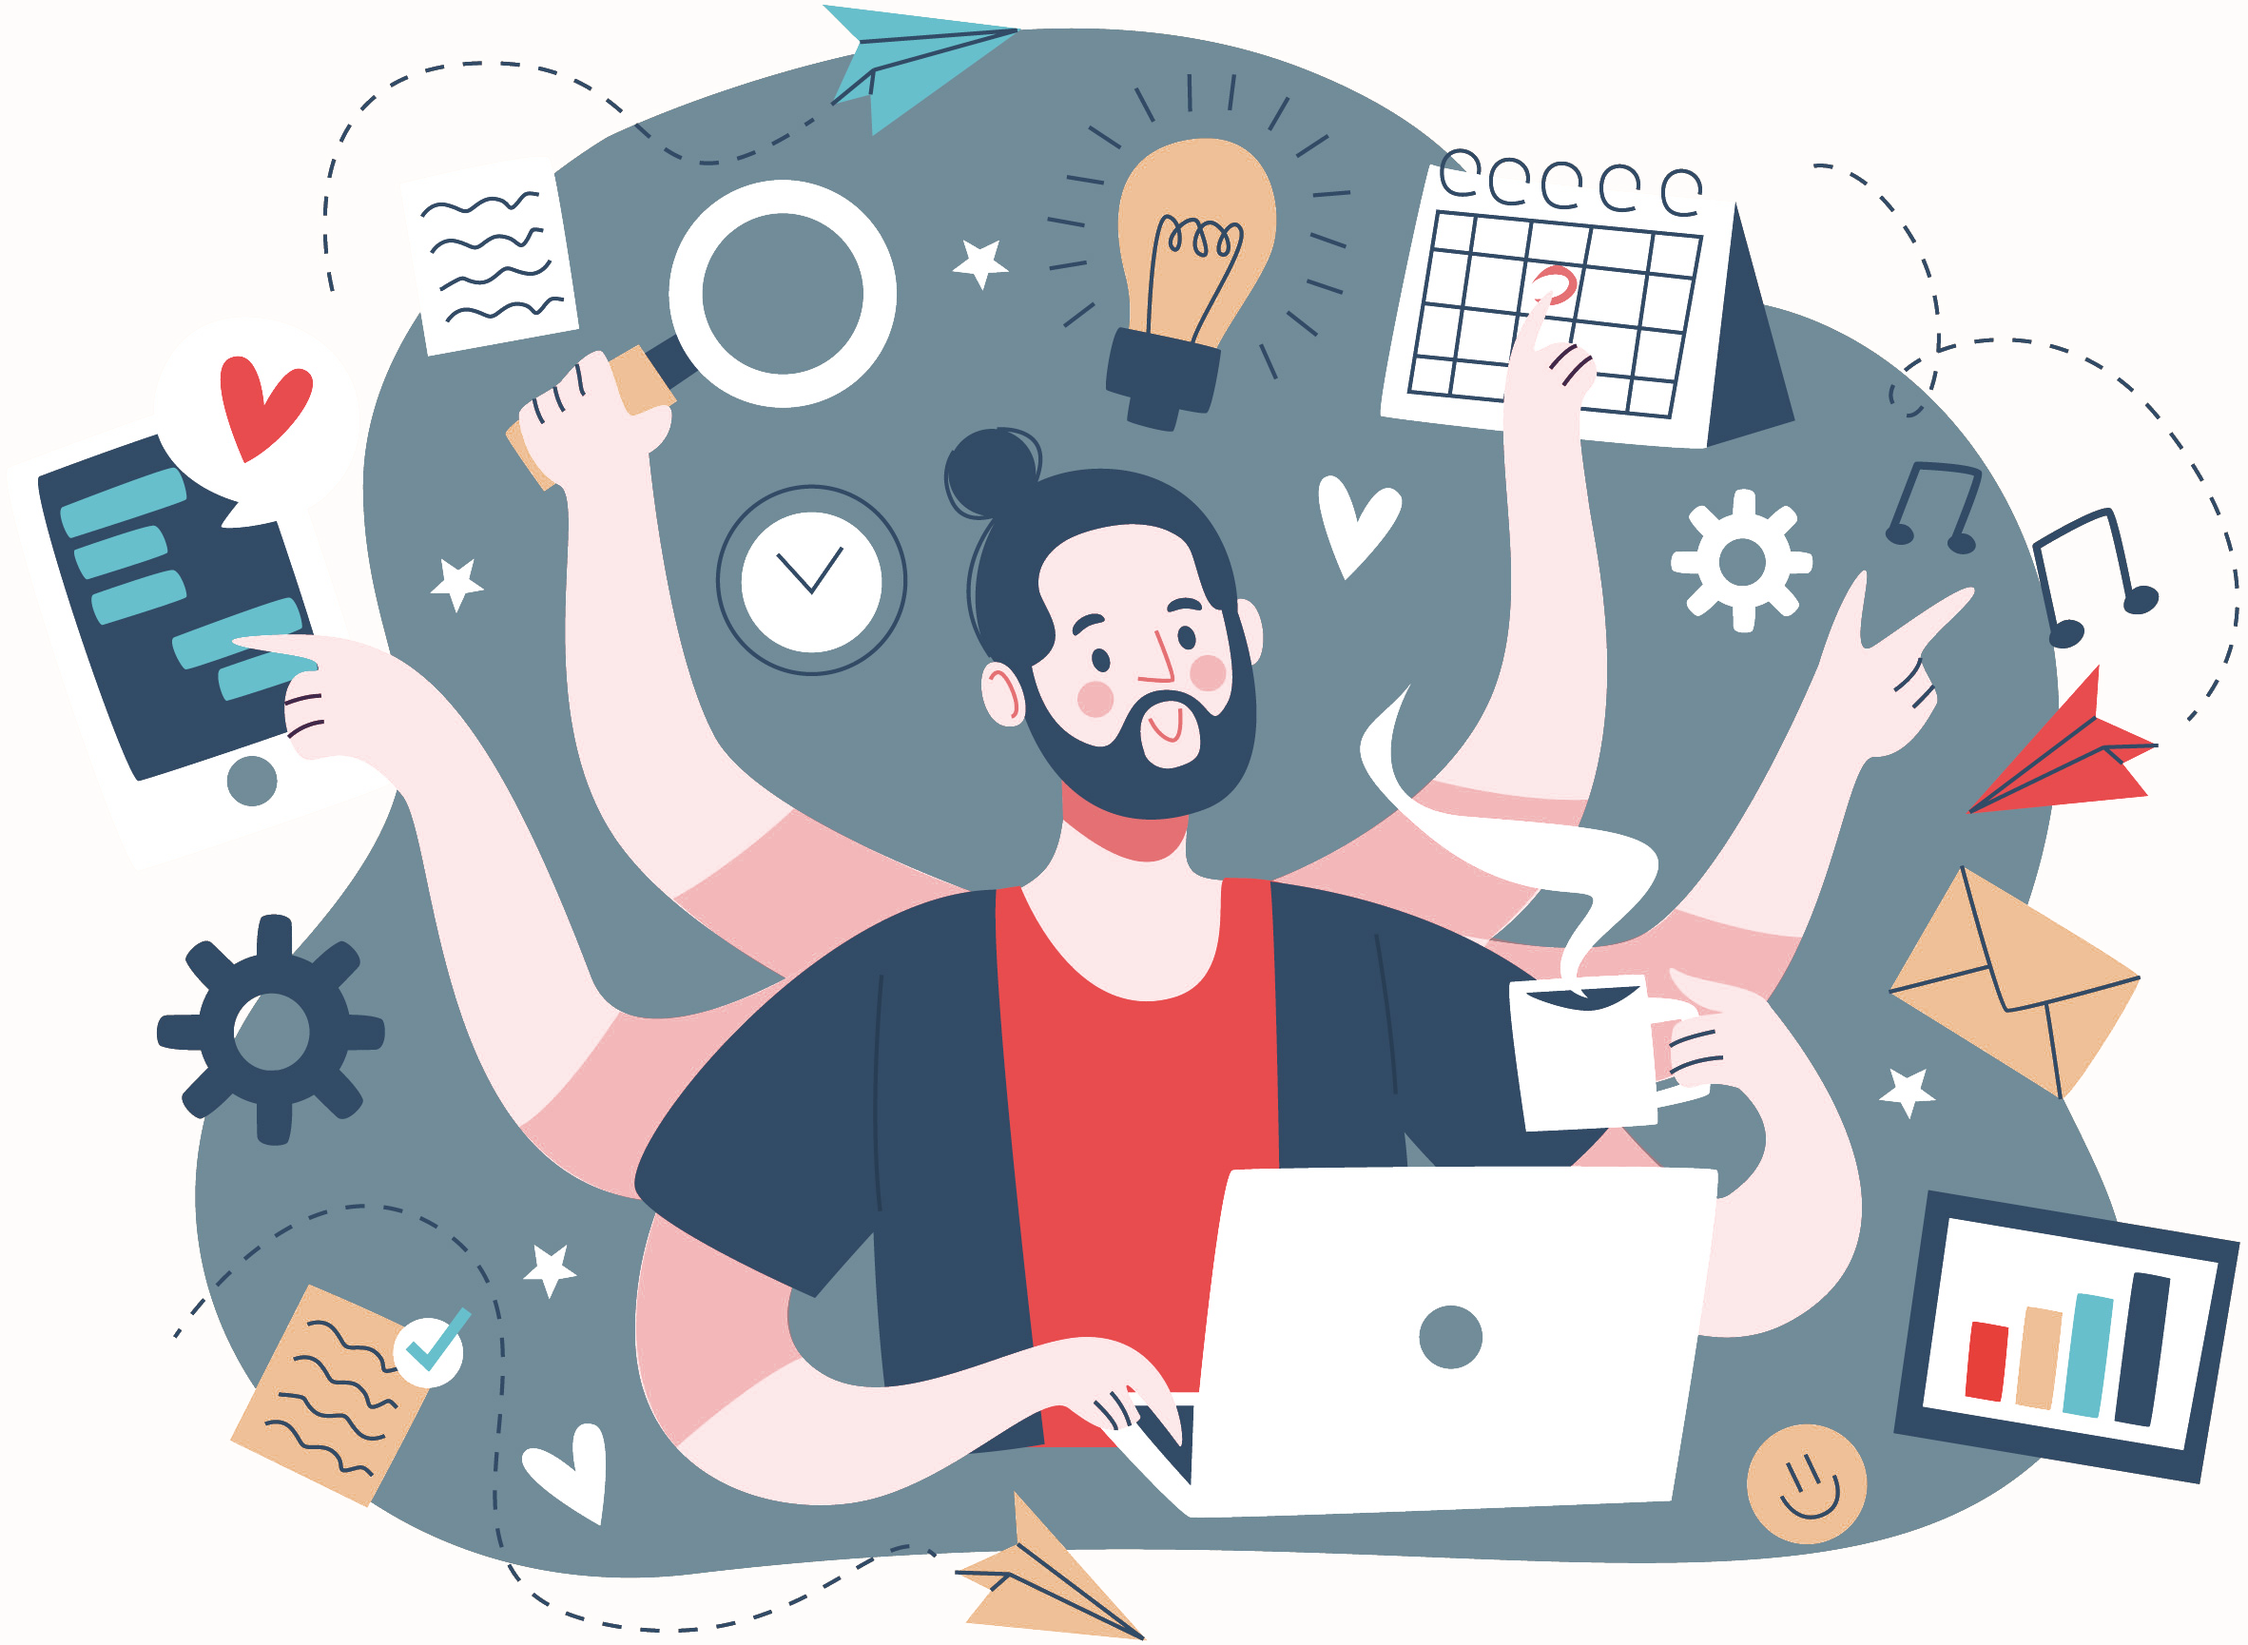
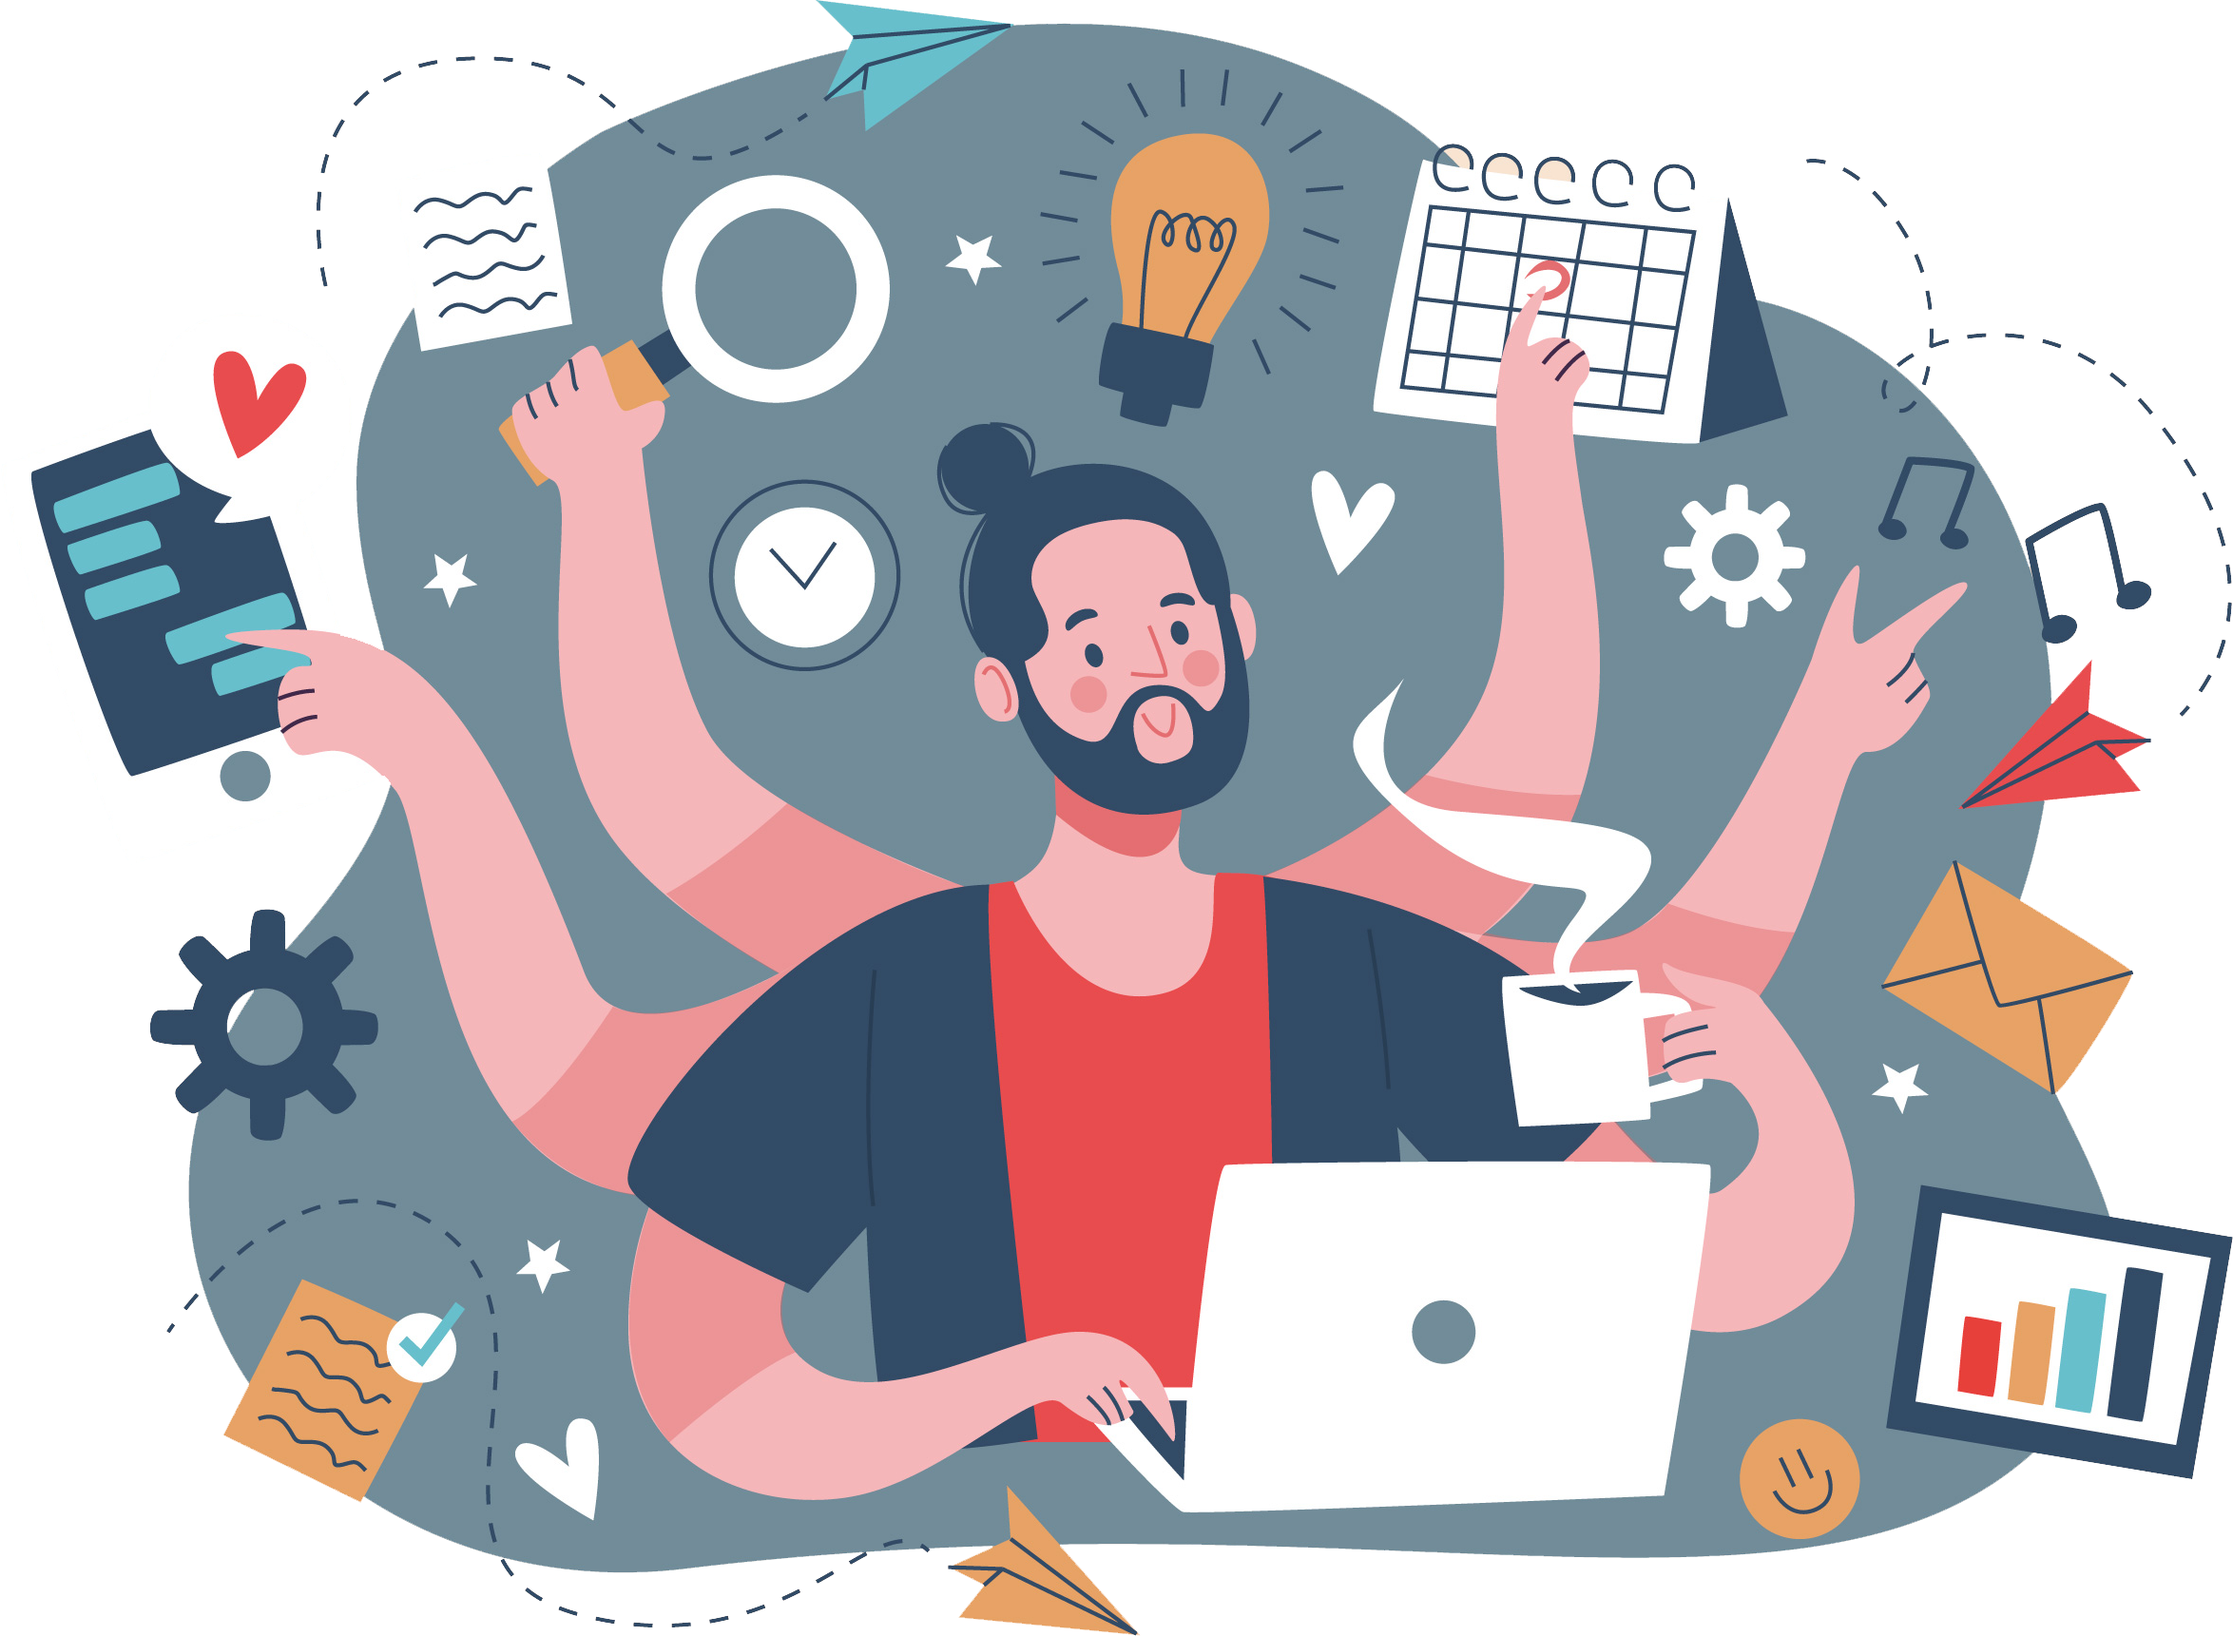
home page improvements

diff --git a/src/client/src/app/modules/home/home.component.scss b/src/client/src/app/modules/home/home.component.scss
@@ -3,16 +3,17 @@
 $home-background-size: 80vh;
 
 $home-light-color: #ffffff;
-$home-primary-color: #e84c4f;
-$home-secondary-color: #fcdabb;
+//$home-primary-color: #e84c4f;
+$home-primary-color: #ffffff;
+$home-secondary-color: #87cefa;
 
 .home {
-  color: $home-light-color;
+  //color: $home-light-color;
 
-  &-item {
-    display: flex;
-    justify-content: center;
-  }
+  //&-item {
+  //  display: flex;
+  //  justify-content: center;
+  //}
 
   &-background {
     display: flex;
@@ -43,7 +44,7 @@ $home-secondary-color: #fcdabb;
     display: flex;
     flex-direction: column;
     align-items: center;
-    height: 90%;
+    height: 100%;
     padding: 0 $unit-8 $unit-8;
     background-color: $home-primary-color;
   }
@@ -64,31 +65,41 @@ $home-secondary-color: #fcdabb;
     }
   }
 
-  &-brand {
+  &-link {
     padding: $unit-2;
     border: dashed;
     letter-spacing: 1px;
     font-size: $font-size-larger;
+
+    &:hover {
+      border: dotted;
+    }
   }
 
-  &-description {
+  &-section {
     flex: 1;
     display: flex;
+    flex-direction: column;
     align-items: center;
     width: 70%;
+    margin-top: $unit-4;
     overflow-y: auto;
     font-size: $font-size-large;
   }
 
-  &-footer {
-    flex: 1;
-    display: flex;
-    justify-content: center;
-    align-items: center;
-    color: $home-primary-color;
-
-    &__curator {
-      font-size: $font-size-larger;
-    }
+  &-subheading {
+    font-size: $font-size-largest;
   }
+
+  //&-footer {
+  //  flex: 1;
+  //  display: flex;
+  //  justify-content: center;
+  //  align-items: center;
+  //  color: $home-primary-color;
+  //
+  //  &__curator {
+  //    font-size: $font-size-larger;
+  //  }
+  //}
 }

diff --git a/src/client/src/app/modules/home/home.component.html b/src/client/src/app/modules/home/home.component.html
@@ -3,33 +3,33 @@
 <!--</main>-->
 <!--<perfect-scrollbar>-->
 <main class="home">
-  <div class="home__item home-background">
+  <div class="home-background">
     <img class="home-background__image" src="./assets/images/home/background.png" alt="">
   </div>
-  <div class="home__item home-main">
+  <div class="home-main">
     <div class="home-content">
       <nav class="home-navigation">
         <ul class="home-actions">
           <li>
-            <a mat-fab color="primary" aria-label="Example icon button with a delete icon" [disableRipple]="true">
+            <a mat-fab color="primary" aria-label="Example icon button with a delete icon">
 <!--              <mat-icon>delete</mat-icon>-->
               L
             </a>
           </li>
           <li>
-            <a mat-fab color="accent" aria-label="Example icon button with a bookmark icon" [disableRipple]="true">
+            <a mat-fab color="accent" aria-label="Example icon button with a bookmark icon">
               <!--              <mat-icon>bookmark</mat-icon>-->
               R
             </a>
           </li>
         </ul>
-        <h1 class="home-brand"><a href="/">Linkuist</a></h1>
+        <h1><a class="home-link" href="/">Linkuist</a></h1>
       </nav>
-      <div class="home-description" [innerHTML]="'HOME.DESCRIPTION' | translate"></div>
+      <section class="home-section">
+        <h2 class="home-subheading">About</h2>
+        <div class="home-text" [innerHTML]="'HOME.ABOUT' | translate"></div>
+      </section>
     </div>
-    <footer class="home-footer">
-      <h2 class="home-footer__curator">About</h2>
-    </footer>
   </div>
 </main>
 <!--</perfect-scrollbar>-->

diff --git a/src/client/src/material-theme.scss b/src/client/src/material-theme.scss
@@ -2,8 +2,8 @@
 
 @include mat-core();
 
-$primary: mat-palette($mat-green, A400, A200, A700);
-$accent: mat-palette($mat-amber, A400, A200, A700);
+$primary: mat-palette($mat-blue);
+$accent: mat-palette($mat-pink);
 $theme: mat-light-theme($primary, $accent);
 
 @include angular-material-theme($theme);

diff --git a/src/client/src/styles.scss b/src/client/src/styles.scss
@@ -1,4 +1,4 @@
-//@import '~@angular/material/prebuilt-themes/deeppurple-amber.css';
+//@import '~@angular/material/prebuilt-themes/indigo-pink.css';
 @import 'fonts';
 @import 'reset';
 @import 'global';
